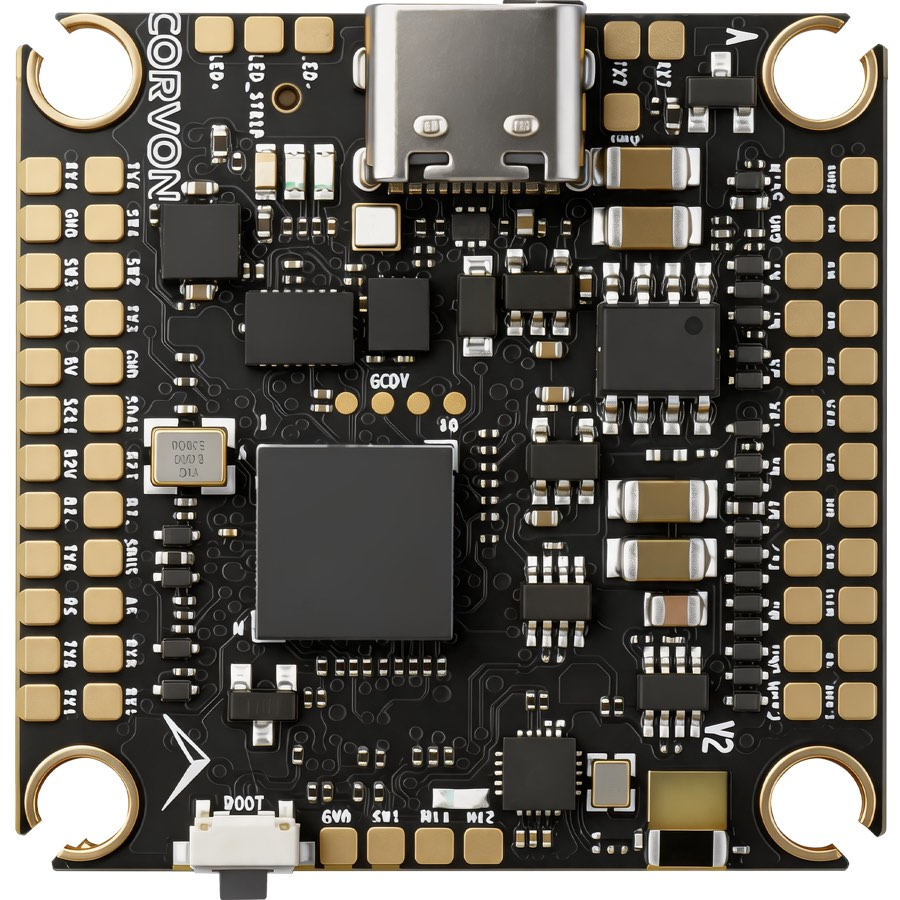
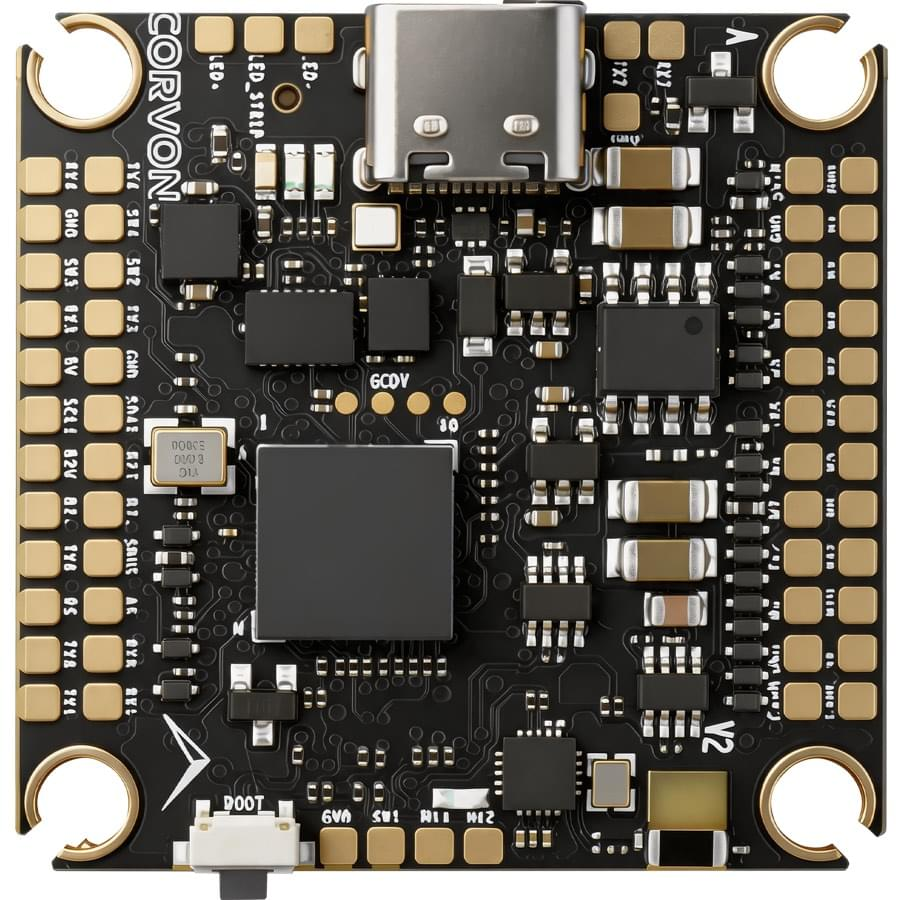
docs(docs): Prettier, image shrink, subedit

diff --git a/docs/en/flight_controller/corvon_743v2.md b/docs/en/flight_controller/corvon_743v2.md
@@ -3,7 +3,8 @@
 <Badge type="tip" text="PX4 v1.18" />
 
 :::warning
-PX4 does not manufacture this (or any) autopilot. Contact the manufacturer for hardware support or compliance issues.
+PX4 does not manufacture this (or any) autopilot.
+Contact the manufacturer for hardware support or compliance issues.
 :::
 
 The _CORVON 743v2_ is a flight controller designed by Feikong Technology Co., Ltd under the CORVON brand.
@@ -11,7 +12,7 @@ It builds on the [CORVON 743v1](corvon_743v1.md) platform with significantly upg
 
 The board uses [Pixhawk Autopilot Standard Connections](https://docs.px4.io/main/en/flight_controller/autopilot_pixhawk_standard.html).
 
-<img src="../../assets/flight_controller/corvon_743v2/corvon_743v2_top.jpg" width="400px" title="CORVON 743v2 Top Baseboard" /> <img src="../../assets/flight_controller/corvon_743v2/corvon_743v2_bottom.jpg" width="400px" title="CORVON 743v2 Bottom Interfaces" />
+<img src="../../assets/flight_controller/corvon_743v2/corvon_743v2_top.jpg" width="300px" title="CORVON 743v2 Top Baseboard" /> <img src="../../assets/flight_controller/corvon_743v2/corvon_743v2_bottom.jpg" width="300px" title="CORVON 743v2 Bottom Interfaces" />
 
 ::: info
 This flight controller is [manufacturer supported](../flight_controller/autopilot_manufacturer_supported.md).
@@ -72,7 +73,7 @@ Both channels feed PX4's standard analog battery driver with a default 21.2 volt
 
 The following image shows the physical connector and solder-pad layout, with the labels used in this document and in the firmware's `default.px4board`:
 
-<img src="../../assets/flight_controller/corvon_743v2/CORVON743V2_PortsConnection.png" width="800px" title="CORVON 743v2 Ports & Connectors" />
+![CORVON 743v2 Ports & Connectors](../../assets/flight_controller/corvon_743v2/corvon743v2_portsconnection.png)
 
 The board exposes the following connectors and solder pads:
 
@@ -91,28 +92,31 @@ The board exposes the following connectors and solder pads:
 
 The next image shows the individual solder-pad signal assignments on both the top and bottom of the board for advanced wiring (GPIO breakouts, ADC pads, etc.):
 
-<img src="../../assets/flight_controller/corvon_743v2/CORVON743V2_Pads.png" width="800px" title="CORVON 743v2 Solder Pad Map" />
+![CORVON 743v2 Solder Pad Map](../../assets/flight_controller/corvon_743v2/corvon743v2_pads.png)
 
 ### Standard Serial Port Mapping
 
-| Physical UART | PCB Silk Label  | PX4 Slot (QGC) | Default Usage                                |
-| ------------- | --------------- | -------------- | -------------------------------------------- |
-| USART1        | `TELEM1`        | TELEM 1        | MAVLink                                      |
-| USART2        | `04-AIR`        | -              | DJI O4 Air Unit (MSP DisplayPort)            |
-| USART3        | `GPS`           | GPS 1          | GPS (plus external compass on shared I²C)    |
-| UART4         | `TELEM2`        | TELEM 2        | MAVLink (Companion Link)                     |
-| UART5         | `UART5`         | **TELEM 3**    | User Auxiliary                               |
-| USART6        | `RCIN`          | RC             | RC Input (SBUS / CRSF / ELRS)                |
-| UART7         | `UART7`         | **UART 6**     | ESC Telemetry                                |
-| UART8         | (onboard BT)    | TELEM 4        | Bluetooth MAVLink @ 115200 (pre-configured)  |
+| Physical UART | PCB Silk Label | PX4 Slot (QGC) | Default Usage                               |
+| ------------- | -------------- | -------------- | ------------------------------------------- |
+| USART1        | `TELEM1`       | TELEM 1        | MAVLink                                     |
+| USART2        | `04-AIR`       | -              | DJI O4 Air Unit (MSP DisplayPort)           |
+| USART3        | `GPS`          | GPS 1          | GPS (plus external compass on shared I²C)   |
+| UART4         | `TELEM2`       | TELEM 2        | MAVLink (Companion Link)                    |
+| UART5         | `UART5`        | **TELEM 3**    | User Auxiliary                              |
+| USART6        | `RCIN`         | RC             | RC Input (SBUS / CRSF / ELRS)               |
+| UART7         | `UART7`        | **UART 6**     | ESC Telemetry                               |
+| UART8         | (onboard BT)   | TELEM 4        | Bluetooth MAVLink @ 115200 (pre-configured) |
 
 ::: tip
-The silk labels `UART5` and `UART7` on the PCB refer to the STM32H743's physical UART numbers. In QGroundControl these ports appear as `TELEM 3` and `UART 6` respectively, because of PX4's internal serial-slot abstraction. When assigning a service in QGroundControl, look up the silk label in the **PCB Silk Label** column to find the corresponding **PX4 Slot** name.
+The silk labels `UART5` and `UART7` on the PCB refer to the STM32H743's physical UART numbers.
+In QGroundControl these ports appear as `TELEM 3` and `UART 6` respectively, because of PX4's internal serial-slot abstraction.
+When assigning a service in QGroundControl, look up the silk label in the **PCB Silk Label** column to find the corresponding **PX4 Slot** name.
 :::
 
 ### Debug Port
 
-The board features a **4-pin SWD Debug** interface (SWCLK / SWDIO / 3V3 / GND) for hardware debugging. There is no dedicated NSH console UART; the NSH console is exposed over USB CDC out of the box and is available via QGroundControl's MAVLink Console.
+The board features a **4-pin SWD Debug** interface (SWCLK / SWDIO / 3V3 / GND) for hardware debugging.
+There is no dedicated NSH console UART; the NSH console is exposed over USB CDC out of the box and is available via QGroundControl's MAVLink Console.
 
 ### RC Input
 
@@ -129,7 +133,8 @@ Configure the receiver protocol with the relevant `RC_*_PRT_CFG` parameter from 
 
 ### Bluetooth Telemetry (Pre-configured)
 
-The board has an onboard Bluetooth module with a ceramic antenna, wired internally to UART8. The factory firmware pre-binds MAVLink instance 2 to this port at **115200 baud with no flow control**, so the link works out of the box: just pair the board from a phone or tablet GCS - no QGroundControl parameter changes required.
+The board has an onboard Bluetooth module with a ceramic antenna, wired internally to `UART8`.
+The factory firmware pre-binds MAVLink instance 2 to this port at **115200 baud with no flow control**, so the link works out of the box: just pair the board from a phone or tablet GCS - no QGroundControl parameter changes required.
 
 ## Building / Loading Firmware
 
@@ -144,4 +149,5 @@ To [build PX4](../dev_setup/building_px4.md) for this target from source:
 make corvon_743v2_default
 ```
 
-Initial firmware flashing can be done over USB via QGroundControl. The bootloader status follows the standard generic PX4 LED indications (Red = Bootloader / Error, Blue = Active / Activity, Green = Powered).
+Initial firmware flashing can be done over USB via QGroundControl.
+The bootloader status follows the standard generic PX4 LED indications (Red = Bootloader / Error, Blue = Active / Activity, Green = Powered).